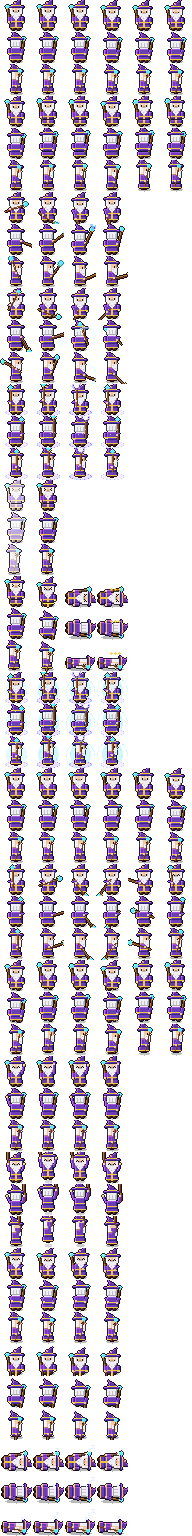
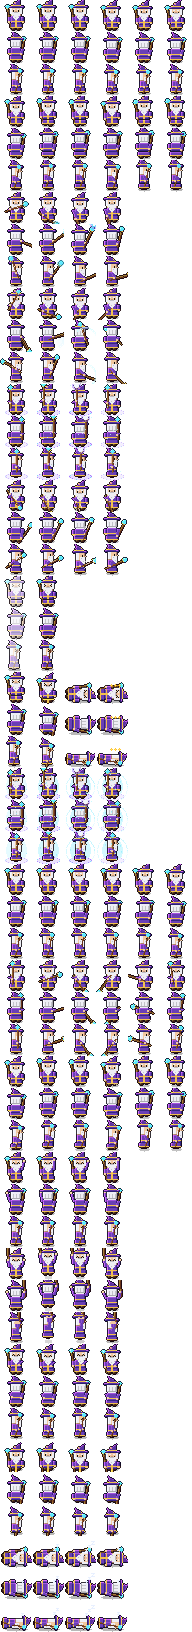
Add attack4 so each hero has 4 normal-attack variants; nextAttackAnim helper
Claude-Session: https://claude.ai/code/session_01QnG6Xymw3ckdFJ5DhJE8Qy

diff --git a/tools/art/characters.ts b/tools/art/characters.ts
@@ -29,6 +29,7 @@ export const ANIMS: { name: string; frames: number; fps: number; loop: boolean }
   { name: "attack", frames: 4, fps: 14, loop: false },
   { name: "attack2", frames: 4, fps: 14, loop: false },
   { name: "attack3", frames: 4, fps: 12, loop: false },
+  { name: "attack4", frames: 4, fps: 14, loop: false },
   { name: "hit", frames: 2, fps: 10, loop: false },
   { name: "ko", frames: 4, fps: 6, loop: false },
   { name: "skill", frames: 4, fps: 10, loop: false },
@@ -57,7 +58,7 @@ const FACE: Record<Dir, [number, number]> = { down: [0, 1], up: [0, -1], right: 
 const FACE_ANGLE: Record<Dir, number> = { down: 90, up: -90, right: 0 };
 const rad = (d: number) => (d * Math.PI) / 180;
 
-export type MoveId = "a1" | "a2" | "a3";
+export type MoveId = "a1" | "a2" | "a3" | "a4";
 type MoveKind = "slash" | "thrust" | "spin" | "bash" | "slam" | "cast" | "double" | "charged" | "bonk" | "shot";
 interface Move { swing: number[]; reach?: number[]; lift?: number[]; abs?: boolean; kind: MoveKind; fx?: number }
 interface Hero {
@@ -72,7 +73,7 @@ interface Hero {
   fx?(d: D, hand: [number, number], angle: number): void;
   swing: number[]; // weapon angles relative to facing for attack phases 0..3
   kind1?: MoveKind;
-  moves?: { a2: Move; a3: Move };
+  moves?: { a2: Move; a3: Move; a4: Move };
   aura?: number;   // skill glow colour
   cols: { sleeve: number; hand: number };
   weaponKind: string;
@@ -159,6 +160,7 @@ const ninja: Hero = {
   moves: {
     a2: { swing: [0, 0, 0, 0], reach: [-3, 5, 7, 3], lift: [1, 0, 0, 0], kind: "thrust" },
     a3: { swing: [-20, -20, -20, -20], reach: [2, 3, 3, 2], lift: [2, 2, 2, 2], kind: "spin" },
+    a4: { swing: [80, 40, -45, -75], reach: [-1, 2, 4, 2], lift: [-2, 0, 3, 3], kind: "slash" },
   },
   legs(d, top) { standardLegs(d, top, NJ.suit, NJ.boot); if (d.p.dir !== "right") { d.c.rect(12 + d.lx, 25, 3, 1, NJ.wrap); d.c.rect(17 + d.lx, 25, 3, 1, NJ.wrap); } },
   torso(d) {
@@ -221,6 +223,7 @@ const knight: Hero = {
   moves: {
     a2: { swing: [110, 40, -35, -60], reach: [0, 3, 4, 2], lift: [0, 1, 0, 0], kind: "slash", fx: 0xfff6c8 },
     a3: { swing: [140, 140, 140, 140], reach: [-1, 1, 1, 0], lift: [0, 0, 0, 0], kind: "bash" },
+    a4: { swing: [-175, -100, 10, 25], reach: [-1, 1, 4, 3], lift: [8, 7, 0, 0], kind: "slash", fx: 0xfff6c8 },
   },
   legs(d, top) { standardLegs(d, top, KN.mail, KN.boot); if (d.p.dir !== "right") { d.c.rect(12 + d.lx, top, 3, 1, KN.steel); d.c.rect(17 + d.lx, top, 3, 1, KN.steel); } },
   torso(d) {
@@ -298,6 +301,7 @@ const wizard: Hero = {
   moves: {
     a2: { swing: [-150, -70, 20, 45], reach: [0, 3, 4, 2], lift: [5, 2, 0, 0], kind: "bonk", fx: 0xc8fbff },
     a3: { swing: [-90, -90, -90, -90], abs: true, reach: [0, 0, 0, 0], lift: [3, 6, 6, 3], kind: "cast" },
+    a4: { swing: [-35, -28, -22, -25], reach: [-6, -2, 0, -2], lift: [2, 1, 1, 0], kind: "thrust", fx: 0xc8fbff },
   },
   legs(d, top) {
     // robe skirt covers legs; feet peek out
@@ -426,13 +430,13 @@ function human(o: HumanOpts): Hero {
   };
   const hat = o.hat;
   const backhand = (sw: number[]): Move => ({ swing: [-sw[0] * 0.8, -sw[1], -sw[2], -sw[3]], kind: "slash", fx: o.fxCol });
-  const moves: Record<HumanOpts["weapon"], { a2: Move; a3: Move }> = {
-    bow: { a2: { swing: [0, 0, 0, 0], reach: [0, 1, 1, 0], lift: [1, 1, 1, 1], kind: "double" }, a3: { swing: [0, 0, 0, 0], reach: [-2, -3, 1, 0], lift: [1, 1, 0, 0], kind: "charged" } },
-    axe: { a2: backhand(swing.axe), a3: { swing: [-160, -95, 30, 40], reach: [-1, 0, 4, 3], lift: [7, 8, -1, -1], kind: "slam" } },
-    hammer: { a2: backhand(swing.hammer), a3: { swing: [-160, -95, 30, 40], reach: [-1, 0, 4, 3], lift: [7, 8, -1, -1], kind: "slam" } },
-    spear: { a2: { swing: [-70, -30, 35, 55], kind: "slash" }, a3: { swing: [0, 0, 0, 0], reach: [-4, 4, 7, 2], lift: [0, 0, 0, 0], kind: "thrust" } },
-    dagger: { a2: { swing: [0, 0, 0, 0], reach: [-3, 4, 6, 2], lift: [1, 0, 0, 0], kind: "thrust" }, a3: backhand(swing.dagger) },
-    none: { a2: { swing: [0, 0, 0, 0], reach: [-2, 4, 5, 2], lift: [1, 0, 0, 0], kind: "thrust" }, a3: { swing: [0, 0, 0, 0], reach: [-1, 3, 5, 1], lift: [0, 0, 0, 0], kind: "bash" } },
+  const moves: Record<HumanOpts["weapon"], { a2: Move; a3: Move; a4: Move }> = {
+    bow: { a2: { swing: [0, 0, 0, 0], reach: [0, 1, 1, 0], lift: [1, 1, 1, 1], kind: "double" }, a3: { swing: [0, 0, 0, 0], reach: [-2, -3, 1, 0], lift: [1, 1, 0, 0], kind: "charged" }, a4: { swing: [-25, -25, -20, -20], reach: [-1, 0, 0, 0], lift: [2, 2, 2, 2], kind: "shot" } },
+    axe: { a2: backhand(swing.axe), a3: { swing: [-160, -95, 30, 40], reach: [-1, 0, 4, 3], lift: [7, 8, -1, -1], kind: "slam" }, a4: { swing: [80, 40, -45, -75], reach: [-1, 2, 4, 2], lift: [-2, 0, 3, 3], kind: "slash", fx: o.fxCol } },
+    hammer: { a2: backhand(swing.hammer), a3: { swing: [-160, -95, 30, 40], reach: [-1, 0, 4, 3], lift: [7, 8, -1, -1], kind: "slam" }, a4: { swing: [80, 40, -45, -75], reach: [-1, 2, 4, 2], lift: [-2, 0, 3, 3], kind: "slash", fx: o.fxCol } },
+    spear: { a2: { swing: [-70, -30, 35, 55], kind: "slash" }, a3: { swing: [0, 0, 0, 0], reach: [-4, 4, 7, 2], lift: [0, 0, 0, 0], kind: "thrust" }, a4: { swing: [-175, -100, 10, 25], reach: [-1, 1, 4, 3], lift: [8, 7, 0, 0], kind: "slash" } },
+    dagger: { a2: { swing: [0, 0, 0, 0], reach: [-3, 4, 6, 2], lift: [1, 0, 0, 0], kind: "thrust" }, a3: backhand(swing.dagger), a4: { swing: [80, 40, -45, -75], reach: [-1, 2, 4, 2], lift: [-2, 0, 3, 3], kind: "slash" } },
+    none: { a2: { swing: [0, 0, 0, 0], reach: [-2, 4, 5, 2], lift: [1, 0, 0, 0], kind: "thrust" }, a3: { swing: [0, 0, 0, 0], reach: [-1, 3, 5, 1], lift: [0, 0, 0, 0], kind: "bash" }, a4: { swing: [0, 0, 0, 0], reach: [0, 2, 4, 1], lift: [-1, 2, 4, 1], kind: "thrust" } },
   };
   const H: Hero = {
     name: o.name,
@@ -685,7 +689,7 @@ export function renderFrame(hero: Hero, p: Pose, withShadow = true, flash = 0): 
   if (flash) c.tint(0xffffff, flash);
   c.rim();
   c.selout(OUTLINE);
-  if (p.attack < 0 || !p.move || p.move === "a1" || mv.kind === "double" || mv.kind === "charged") hero.fx?.(d, hand, ang);
+  if (p.attack < 0 || !p.move || p.move === "a1" || mv.kind === "double" || mv.kind === "charged" || mv.kind === "shot") hero.fx?.(d, hand, ang);
   if (p.attack >= 0) moveFx(d, hero, mv, hand, ang);
   if (withShadow) c.under((s) => s.ellipse(16 + d.lx, 29, 6, 1.5, 0x000000, 70));
   return c;
@@ -864,6 +868,7 @@ export function animFrames(hero: Hero, anim: string, dir: Dir): Canvas[] {
     case "walk": return [1, 0.5, -0.5, -1, -0.5, 0.5].map((stride, t) => renderFrame(hero, { ...B(t), stride, bob: Math.abs(stride) === 1 ? 0 : -1 }));
     case "attack": return [0, 1, 2, 3].map((attack, t) => renderFrame(hero, { ...B(t), attack, bob: attack === 2 ? 1 : 0 }));
     case "attack2": return [0, 1, 2, 3].map((attack, t) => renderFrame(hero, { ...B(t), attack, move: "a2", bob: attack === 2 ? 1 : 0 }));
+    case "attack4": return [0, 1, 2, 3].map((attack, t) => renderFrame(hero, { ...B(t), attack, move: "a4", bob: attack === 2 ? 1 : 0 }));
     case "attack3": {
       if (hero.moves?.a3.kind === "spin") {
         // spin on the spot: face each way in turn, ending where we started

diff --git a/client/src/artAssets.ts b/client/src/artAssets.ts
@@ -8,7 +8,7 @@ import Phaser from "phaser";
 export const CHARACTERS = ["ninja", "wizard", "knight", "archer", "barbarian", "blacksmith", "merchant", "villager", "guard"] as const;
 export const NPC_NAMES = ["blacksmith", "merchant", "villager", "guard"] as const;
 export type CharacterName = (typeof CHARACTERS)[number];
-export const CHAR_ANIMS = ["idle", "walk", "attack", "attack2", "attack3", "hit", "ko", "skill", "idle2", "idle3", "run", "wave", "cheer", "laugh", "sit", "sleep"] as const;
+export const CHAR_ANIMS = ["idle", "walk", "attack", "attack2", "attack3", "attack4", "hit", "ko", "skill", "idle2", "idle3", "run", "wave", "cheer", "laugh", "sit", "sleep"] as const;
 /** Cosmetic animations: play idle2/idle3 now and then while standing still, run when moving fast, emotes from chat (e.g. /wave). */
 export const FLAVOUR_ANIMS = ["idle2", "idle3", "run", "wave", "cheer", "laugh", "sit", "sleep"] as const;
 export const CHAR_ORIGIN = { x: 0.5, y: 29 / 32 }; // feet
@@ -55,4 +55,11 @@ export function playCharAnim(sprite: Phaser.GameObjects.Sprite, char: CharacterN
   const d = dir === "left" ? "right" : dir;
   sprite.setFlipX(dir === "left");
   sprite.play(`${char}_${anim}_${d}`, true);
+}
+
+/** The four normal-attack variants. Pick one per Space press so attacks don't look repetitive. */
+export const ATTACK_VARIANTS = ["attack", "attack2", "attack3", "attack4"] as const;
+export function nextAttackAnim(prev?: string): (typeof ATTACK_VARIANTS)[number] {
+  const options = ATTACK_VARIANTS.filter((a) => a !== prev);
+  return options[Math.floor(Math.random() * options.length)];
 }
